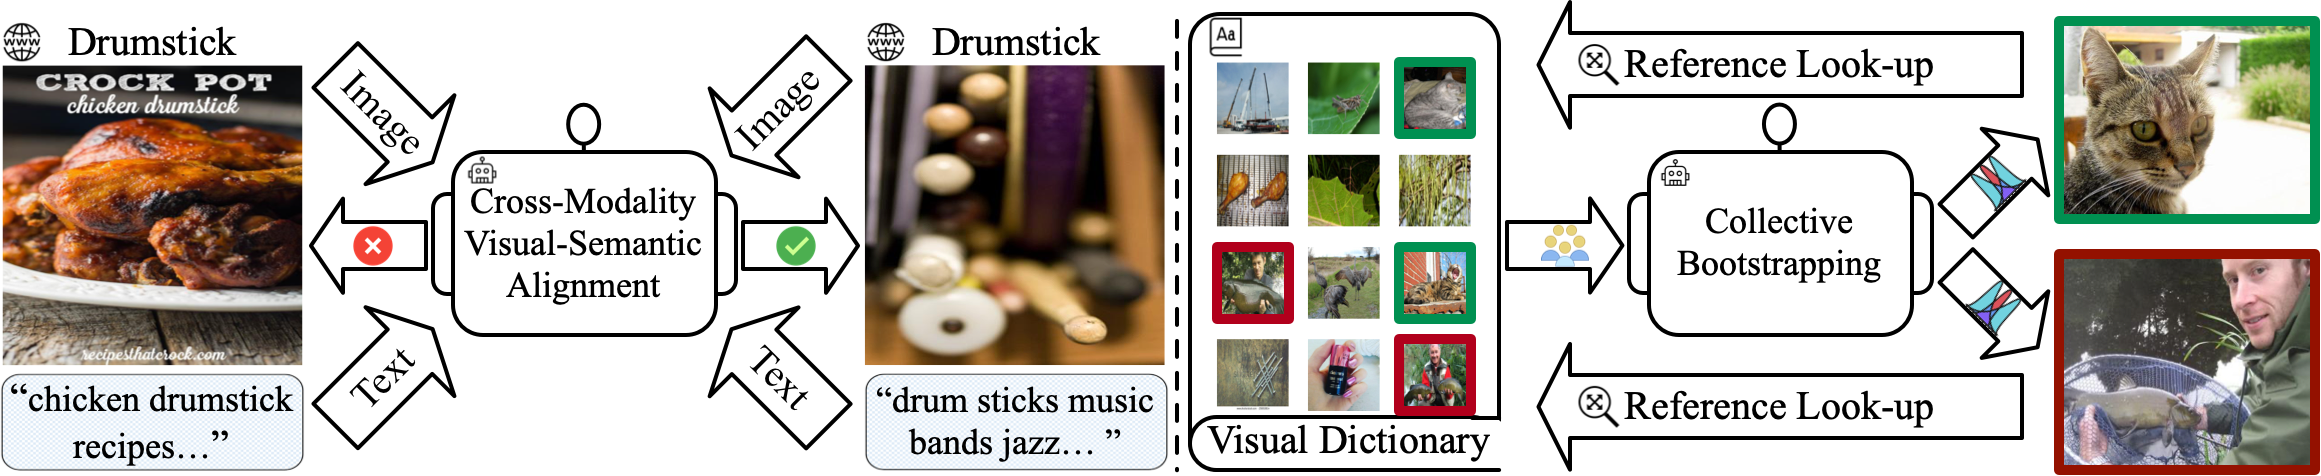
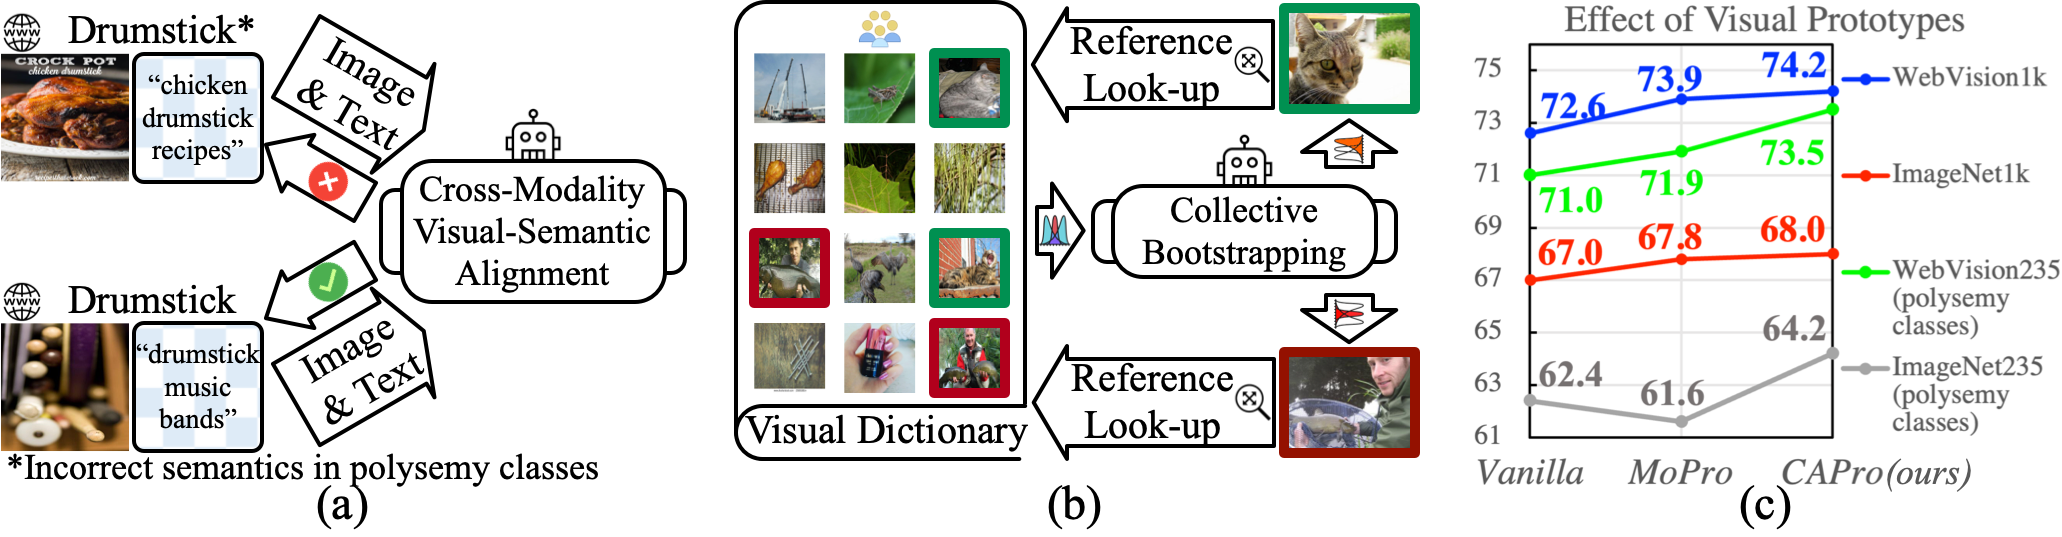
update fig 1

diff --git a/README.md b/README.md
@@ -1,26 +1,26 @@
 # CAPro: Webly Supervised Learning with Cross-modality Aligned Prototypes
 ## Submission to NeurIPS 455
 ## Abstract
-Webly supervised learning (WSL) has attracted increasing attention for its impressive effectiveness in exploring publicly accessible data at scale without manual annotation.
+Webly supervised learning has attracted increasing attention for its effectiveness in exploring publicly accessible data at scale without manual annotation.
 However,
-most existing methods on learning with label noise become subject to realistic noise in web datasets,
+most existing methods on learning with label noise become subject to real-world noise in web datasets,
 for the simple reason that their assumption on clean samples may not hold true.
 For example,
-web images retrieved by queries of ``tiget cat`` and ``drumstick`` are almost dominated by images of tiger and chicken dish,
+web images retrieved by queries of ``tiget cat" and ``drumstick" are almost dominated by images of tiger and chicken,
 which exacerbates learning representations for the fine-grained cat species and musical instrument.
 In this case,
-exploitation of both web images and their associated texts turns out to be a feasible-and-requisite solution to combat noise of various kinds.
+exploitation of both web images and their associated texts turns out to be a requisite solution to combat noise of various kinds.
 In this paper,
 we propose cross-modality aligned prototypes (CAPro),
 a unified prototypical contrastive learning framework for learning representations with correct semantics.
 For one thing,
 we leverage textual prototypes,
 which stem from the distinct concept definition of classes,
-to select clean web images by text matching and thus disambiguate the formation of visual prototypes.
+to select clean images by text matching and thus disambiguate the formation of visual prototypes.
 For another,
 to handle missing and mismatched noisy texts,
 we resort to visual data structure to complete and enhance individual text and thereafter improve text matching in return.
-Such semantically aligned visual prototypes are consistently polished by high quality web images,
+Such semantically aligned visual prototypes are consistently polished by high quality images,
 and engage in both cluster regularization and noise removal.
 Besides,
 we propose collective bootstrapping to encourage smoother and wiser label reference from appearance-similar instances in a manner of dictionary look-up.
@@ -28,8 +28,11 @@ Extensive experiments on WebVision1k and NUS-WIDE demonstrate that CAPro well ha
 Moreover,
 CAPro exhibits robustness to open-set recognition.
 
+
 ## Illustration of Cross-Modality Alignment and Collective Bootstrapping
-![visualization](./imgs/1.png "We propose to explore cross-modality alignment (left) to reduce all kinds of noise including semantic noise, and collective bootstrapping (right) for label reference and regularization.")
+![visualization](./imgs/1.png "We explore cross-modality alignment (a) to maintain semantically correct visual prototypes for noise reduction.
+Collective bootstrapping (b) provides consistent label reference and regularization.
+Our advantage (c) is highlighted in classes where semantic noise prevails due to polysemy concepts.")
 
 ## Overview of BoPro Architecture
 ![overview](./imgs/2.png "Overview of BoPro. Image encoders, projector, and classifiers are trained to learn the low-dimensional embedding space. Visual prototypes are initialized with anchors which are selected by matching denoised metadata to textual prototypes for semantic alignment. Prototypical contrastive learning is performed to constrain cluster distribution and visual prototypes are constantly polished with clean examples. In addition to instance-wise contrastive learning, the visual dictionary is exploited in collective bootstrapping where each of its key embeddings is matched to the query image for reference and regularization. Web labels are simultaneously adjusted to remove noise.")
